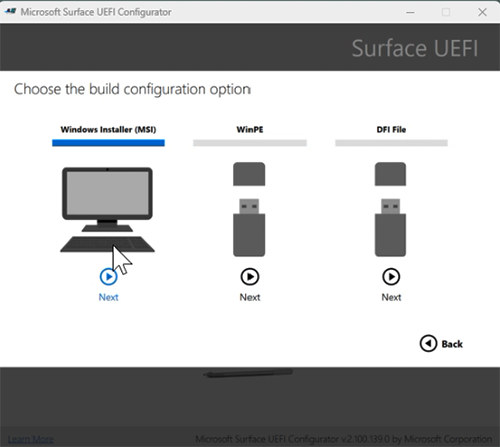
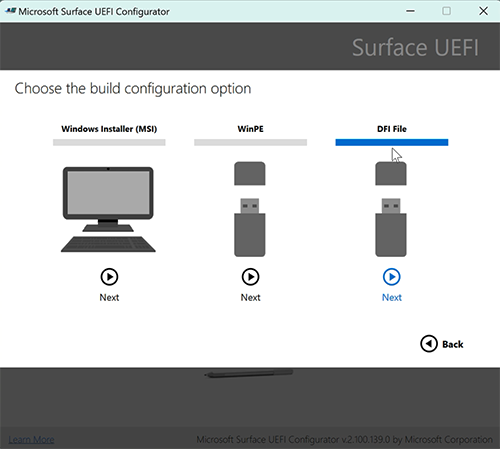
updates

diff --git a/surface-hub/surface-hub-2s-migrate-os.md b/surface-hub/surface-hub-2s-migrate-os.md
@@ -130,9 +130,9 @@ The SEMM package that Surface UEFI Configurator creates must be secured with a c
 
    ![Screenshot shows "Select Configuration Package" selected.](images/shm-fig4.png)
 
-1. Select **Windows Installer (MSI)**.
+1. Select **DFI File**.
 
-   ![Screenshot shows "Windows Installer (MSI)" selected.](images/shm-fig4a.png)
+   ![Screenshot shows "DFI File" selected.](images/shm-fig4a.png)
   
 1. Select **Certificate Protection**.
 
